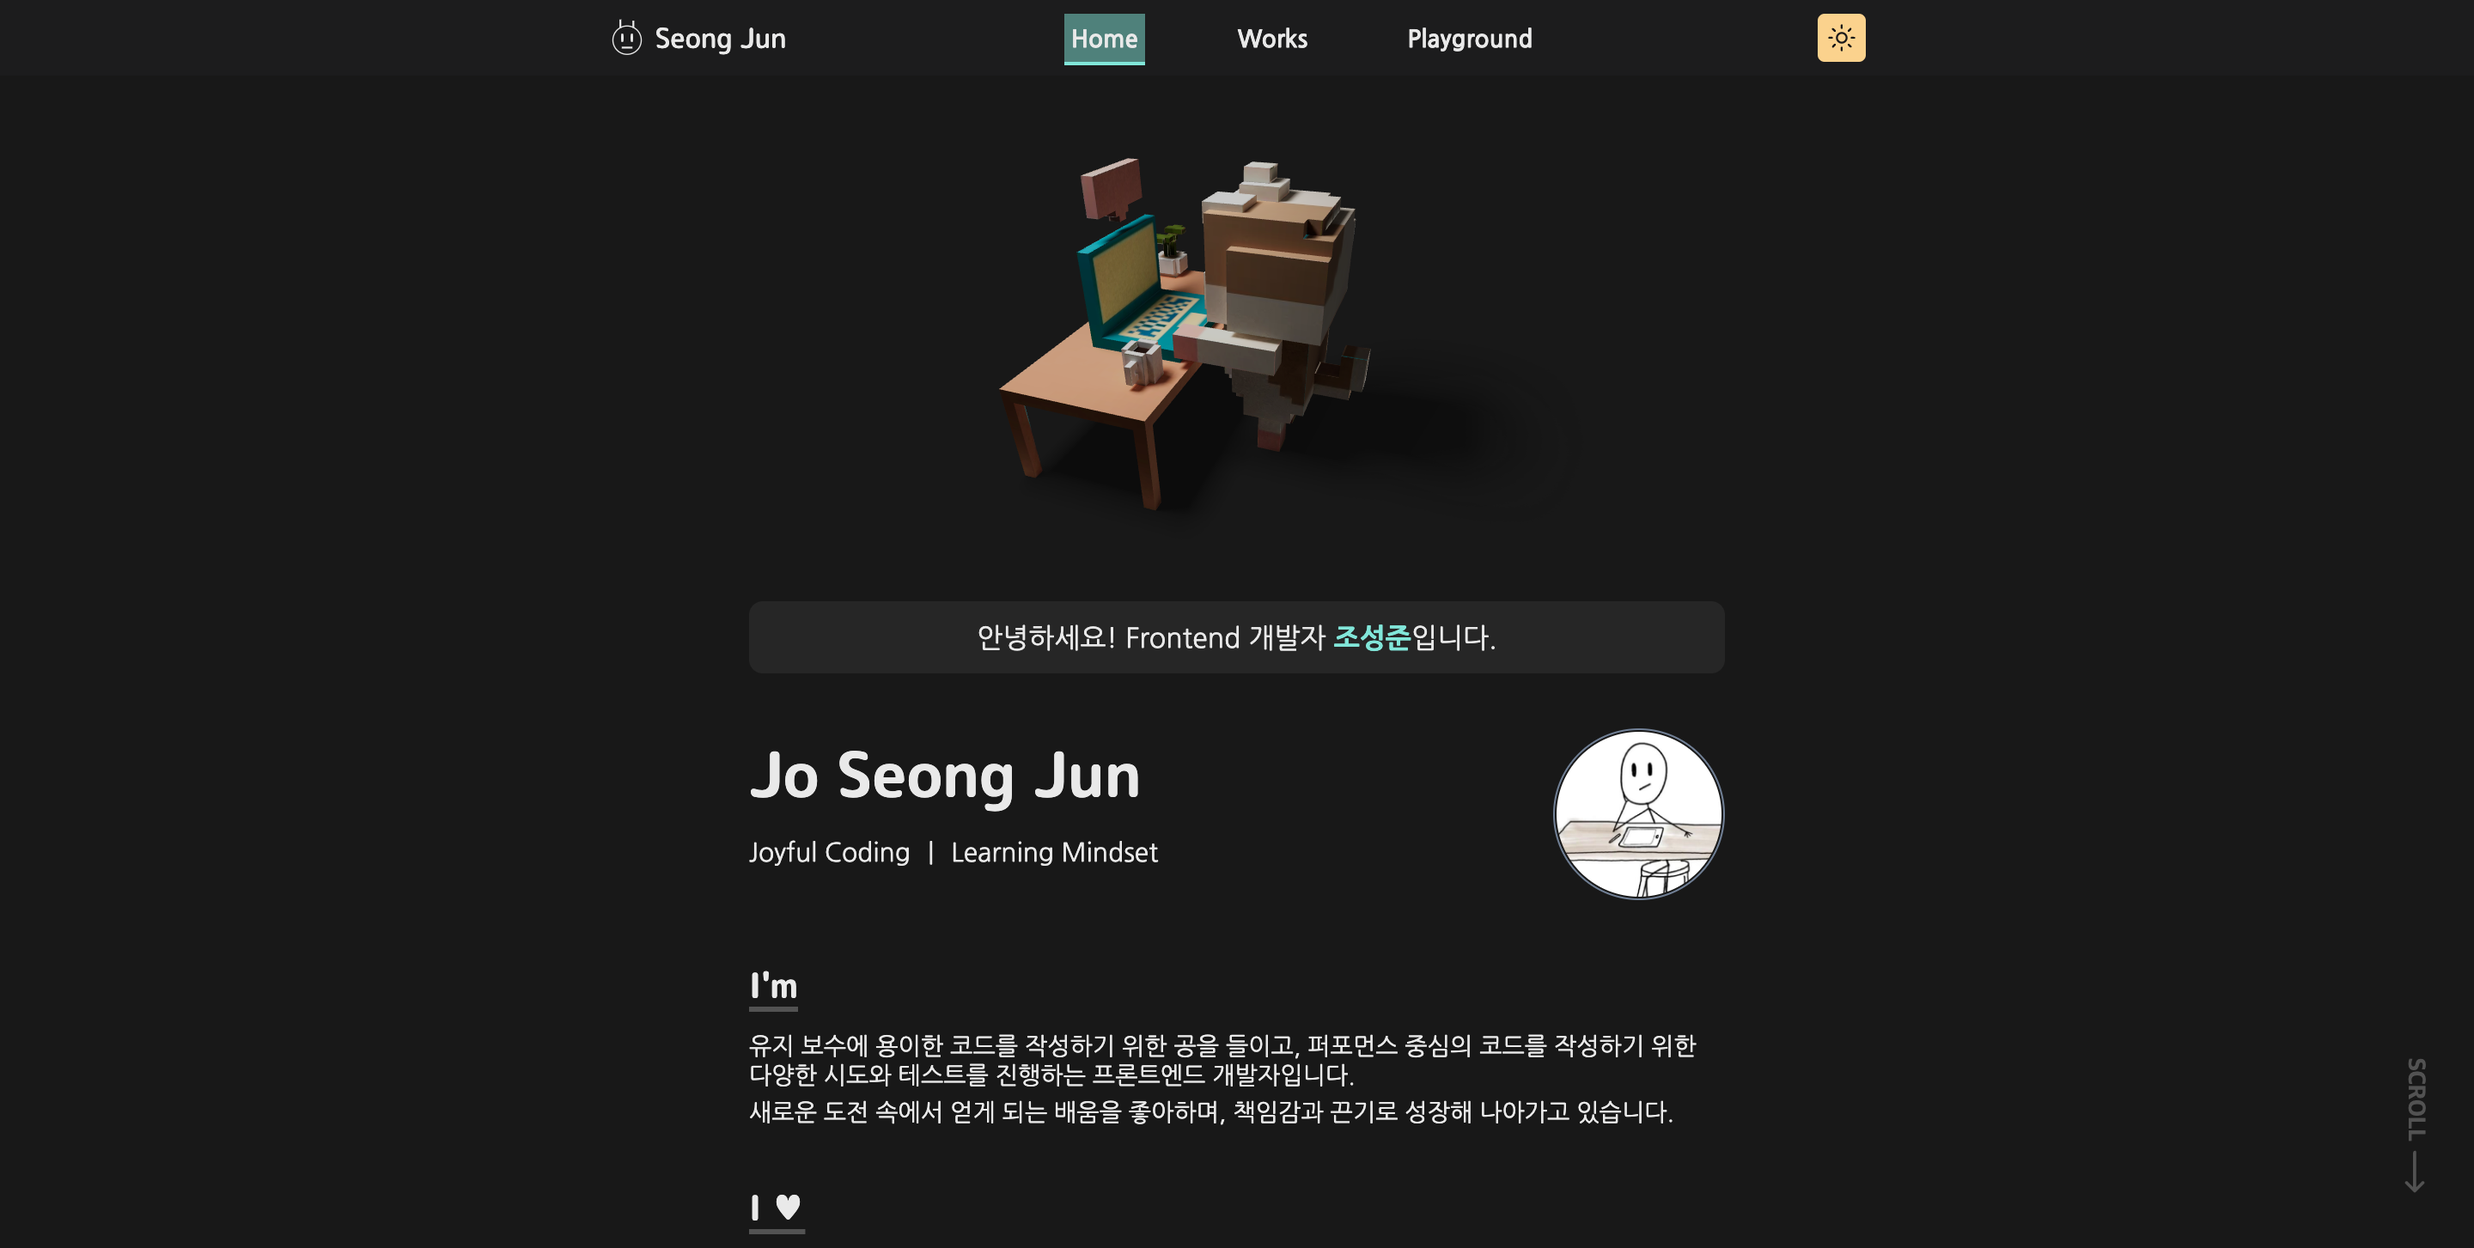
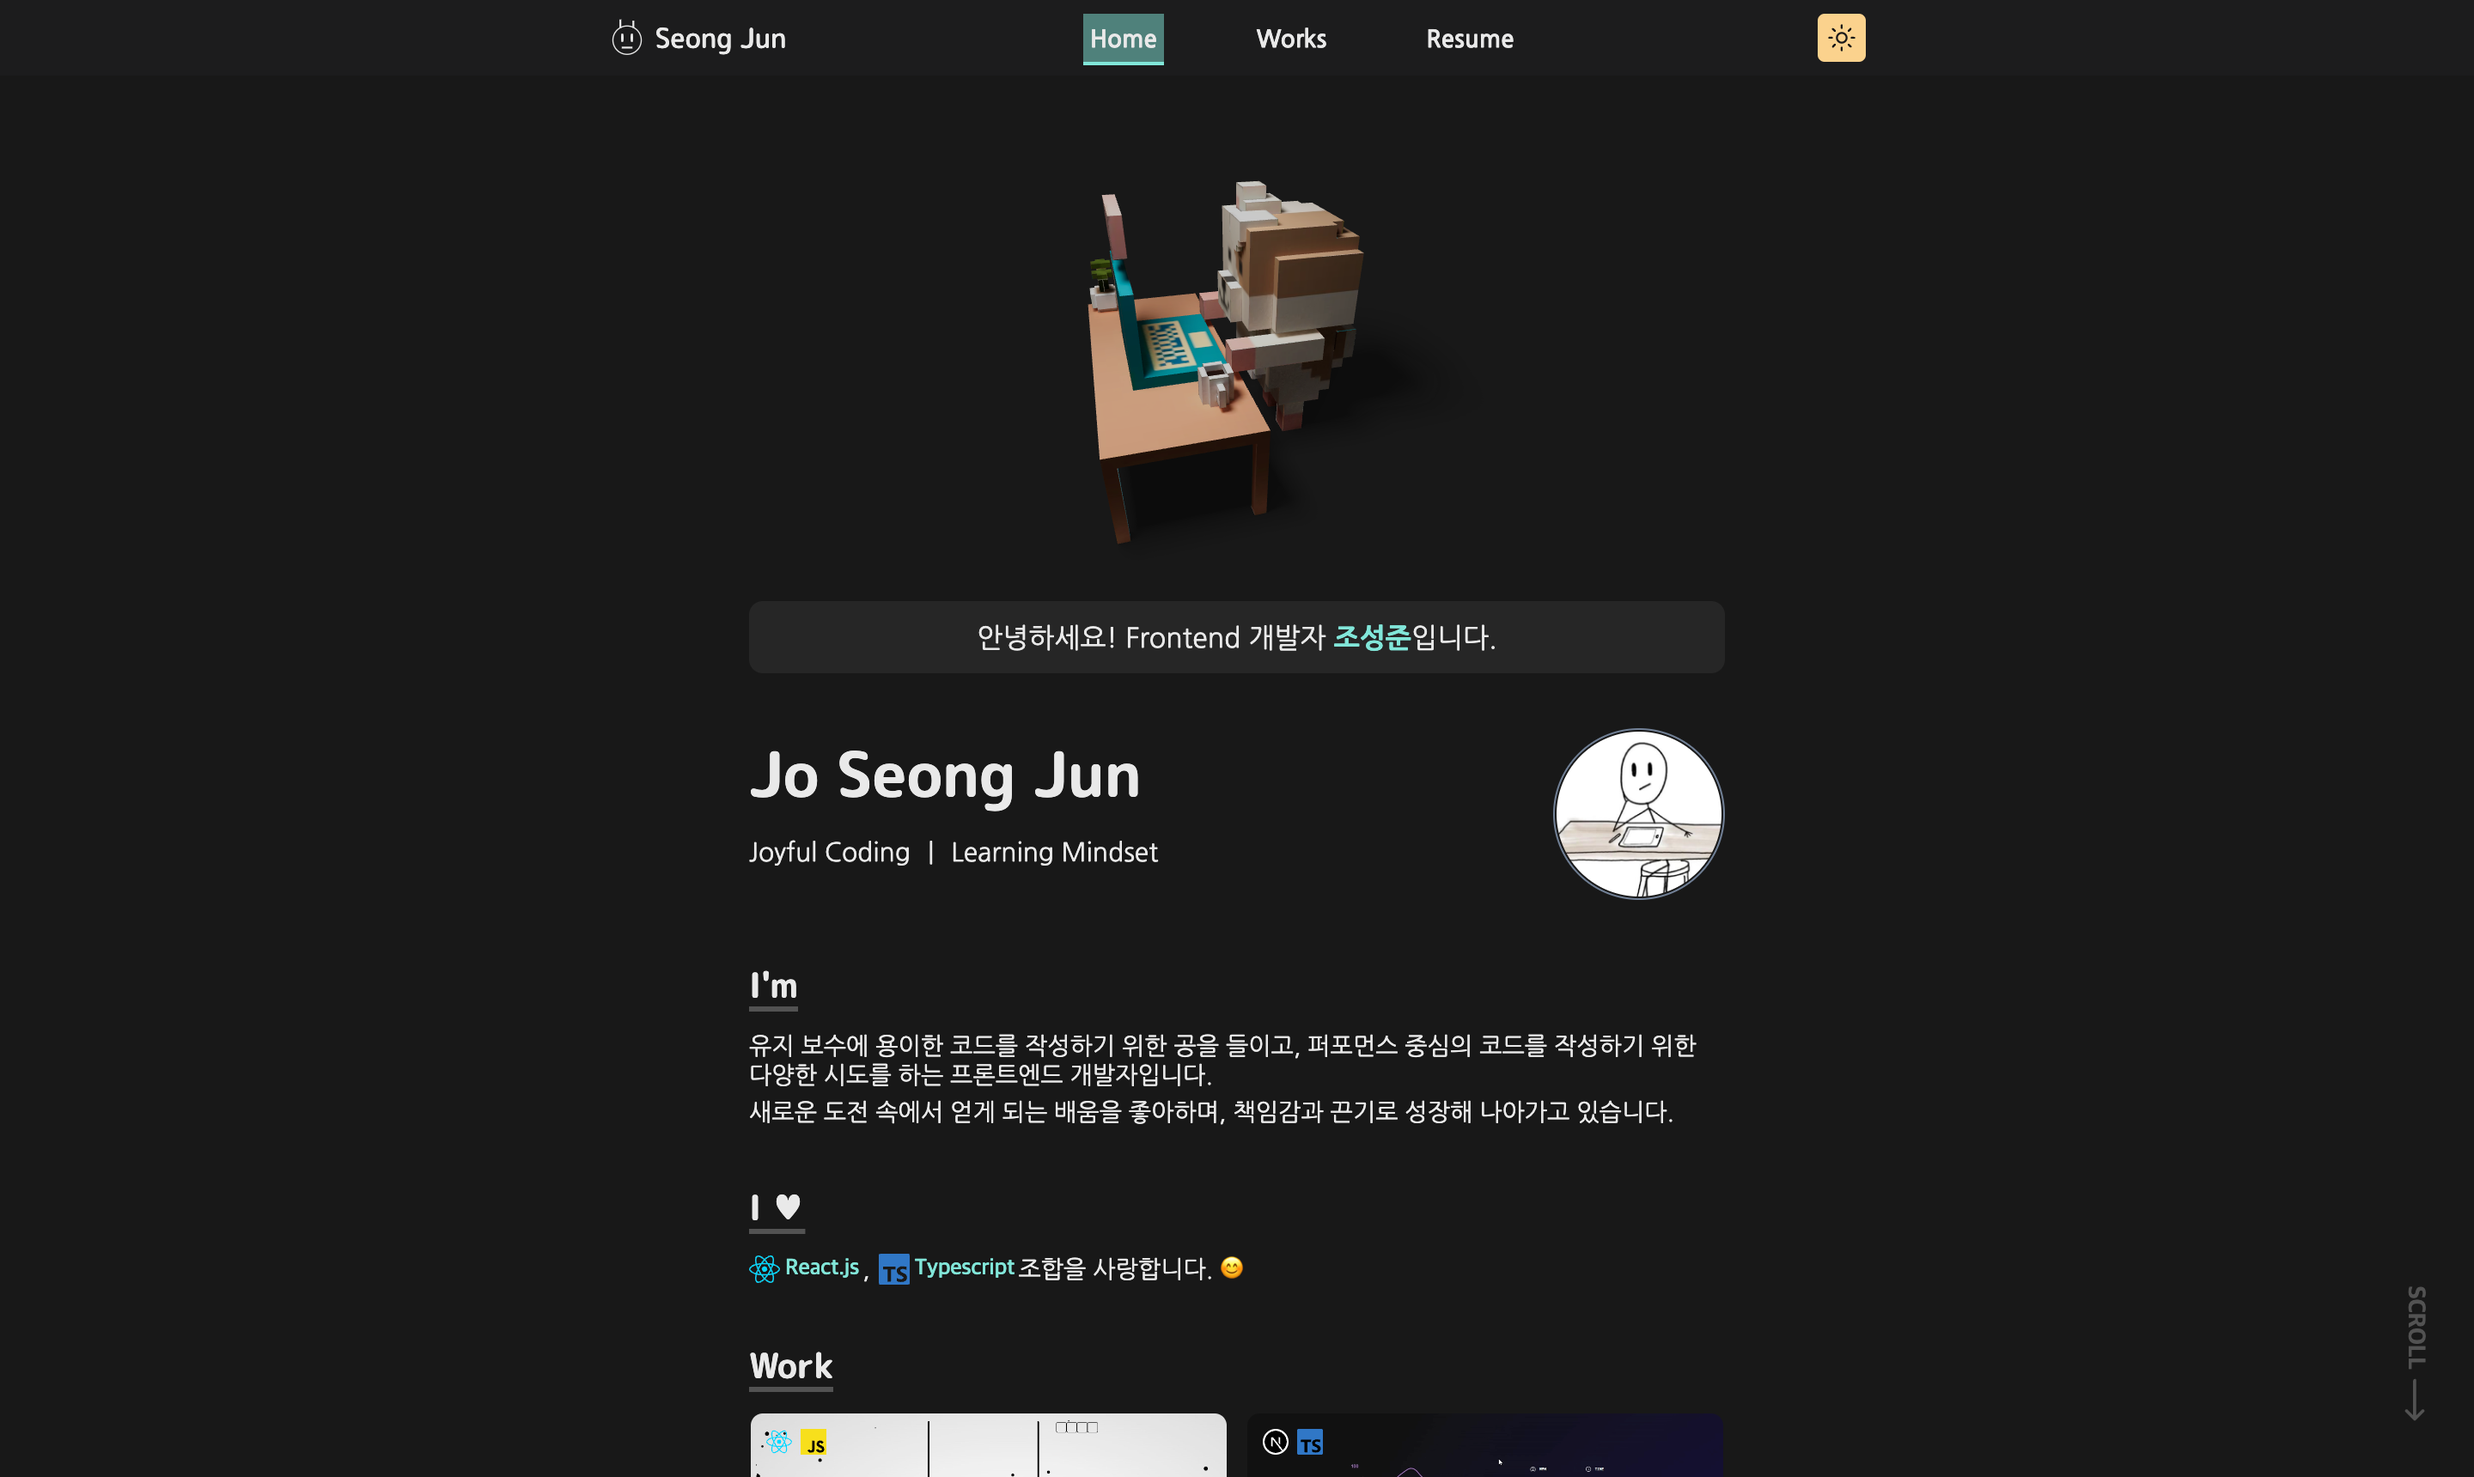
[add] ASCII 프로젝트 추가

diff --git a/src/static/Works.ts b/src/static/Works.ts
@@ -66,6 +66,22 @@ const Works = {
     detailDescriptions: [
       '첫 웹 프로젝트로 HTML canvas와 Web Audio API를 이용해\n정렬알고리즘들의 진행과정을 시각화한 프로젝트입니다.'
     ],
+  },
+
+  ascii: {
+    id: 'ascii',
+    date: 2024,
+    imgSrc: '/assets/thumbnail/ascii_thumb.png',
+    title: 'ASCII Art Maker',
+    description: '이미지를 선택해 ASCII 아트를 생성하거나\nText를 입력해 ASCII 아트를 생성할 수 있습니다.',
+    website: 'https://ascii-art-maker.up.railway.app/',
+    github: 'https://github.com/lofi-J/Ascii-Maker',
+    stack: ['Next.js', 'TypeScript', 'CSS Modules'],
+    deploy: 'Railway',
+    slideImgs: ['ascii/ascii1.png', 'ascii/ascii2.png', 'ascii/ascii3.png', 'ascii/ascii4.png', 'ascii/ascii5.png'],
+    detailDescriptions: [
+      'Next.js로 제작한 ASCII 아트 생성기입니다. HTML Canvas를 활용해 이미지를 분석하고 이를 ASCII 아트로 변환해줍니다.'
+    ],
   }
 }
 

diff --git a/src/pages/WorksPage.tsx b/src/pages/WorksPage.tsx
@@ -13,6 +13,7 @@ const WorksPage = () => {
           <WorkCard {...Works['homepage']} />
           <WorkCard {...Works['typinglab']} />
           <WorkCard {...Works['tetris']} />
+          <WorkCard {...Works['ascii']} />
           <WorkCard {...Works['sorting']} />
         </div>
       </section>
